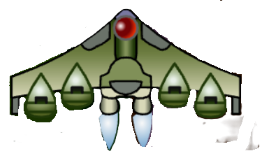
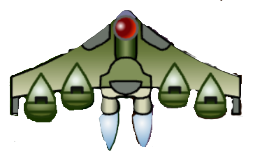
level_2

diff --git a/src/App.cpp b/src/App.cpp
@@ -820,70 +820,70 @@ void App::LoadLevel(int levelNum) {
         // 難度：簡單，主要是突襲型和散彈型
         m_LevelEvents = {
             //test
-            { 60.0f,  {0.0f, 300.0f}, EnemyType::BOSS2, false },
 
 
-            // 開場：3隻突襲機
-            // { 60.0f,  {0.0f, 500.0f}, EnemyType::ASSAULT, true },
-            // { 120.0f, {0.0f, 500.0f}, EnemyType::ASSAULT, true },
-            // { 180.0f, {0.0f, 500.0f}, EnemyType::ASSAULT, true },
-            //
-            // // 散彈型來襲
-            // { 300.0f, {0.0f, 500.0f}, EnemyType::SPREAD, true },
-            // { 420.0f, {0.0f, 500.0f}, EnemyType::SPREAD, true },
-            //
-            // // 坦克型登場
-            // { 480.0f, {0.0f, 500.0f}, EnemyType::TANK, true },
-            // { 540.0f, {0.0f, 500.0f}, EnemyType::TANK, true },
-            // { 600.0f, {0.0f, 500.0f}, EnemyType::TANK, true },
-            //
-            // // 中場：突襲機混戰
-            // { 660.0f, {0.0f, 500.0f}, EnemyType::ASSAULT, true },
-            // { 690.0f, {0.0f, 500.0f}, EnemyType::ASSAULT, true },
-            // { 720.0f, {0.0f, 500.0f}, EnemyType::ASSAULT, true },
-            // { 780.0f, {0.0f, 500.0f}, EnemyType::ASSAULT, true },
-            // { 810.0f, {0.0f, 500.0f}, EnemyType::ASSAULT, true },
-            // { 840.0f, {0.0f, 500.0f}, EnemyType::ASSAULT, true },
-            //
-            // // 幽靈型
-            // { 900.0f, {0.0f, 500.0f}, EnemyType::PHANTOM, true },
-            // { 1140.0f, {0.0f, 500.0f}, EnemyType::PHANTOM, true },
-            //
-            // // 坦克混戰
-            // { 1140.0f, {0.0f, 500.0f}, EnemyType::TANK, true },
-            // { 1170.0f, {0.0f, 500.0f}, EnemyType::TANK, true },
-            //
-            // // 後期：突襲機返場
-            // { 1200.0f, {0.0f, 500.0f}, EnemyType::ASSAULT, true },
-            // { 1230.0f, {0.0f, 500.0f}, EnemyType::ASSAULT, true },
-            // { 1260.0f, {0.0f, 500.0f}, EnemyType::ASSAULT, true },
-            //
-            // // 混合波次
-            // { 1320.0f, {0.0f, 500.0f}, EnemyType::SPREAD, true },
-            // { 1350.0f, {0.0f, 500.0f}, EnemyType::ASSAULT, true },
-            // { 1380.0f, {0.0f, 500.0f}, EnemyType::ASSAULT, true },
-            // { 1410.0f, {0.0f, 500.0f}, EnemyType::ASSAULT, true },
-            //
-            // // 砲台型
-            // { 1440.0f, {150.0f, 500.0f}, EnemyType::TURRET, false },
-            // { 1470.0f, {75.0f, 500.0f}, EnemyType::TURRET, false },
-            // { 1500.0f, {0.0f, 500.0f}, EnemyType::TURRET, false },
-            //
-            // // 最後衝刺
-            // { 1560.0f, {0.0f, 500.0f}, EnemyType::ASSAULT, true },
-            // { 1580.0f, {0.0f, 500.0f}, EnemyType::ASSAULT, true },
-            // { 1600.0f, {0.0f, 500.0f}, EnemyType::ASSAULT, true },
-            // { 1620.0f, {0.0f, 500.0f}, EnemyType::ASSAULT, true },
-            // { 1640.0f, {0.0f, 500.0f}, EnemyType::ASSAULT, true },
-            // { 1660.0f, {0.0f, 500.0f}, EnemyType::ASSAULT, true },
-            // { 1690.0f, {0.0f, 500.0f}, EnemyType::SPREAD, true },
-            //
-            // // 最後的坦克
-            // { 1720.0f, {0.0f, 500.0f}, EnemyType::TANK, true },
-            // { 1750.0f, {0.0f, 500.0f}, EnemyType::TANK, true },
-            //
-            // // 第一關BOSS
-            // { 2100.0f, {0.0f, 500.0f}, EnemyType::BOSS, false }
+
+            //開場：3隻突襲機
+            { 60.0f,  {0.0f, 500.0f}, EnemyType::ASSAULT, true },
+            { 120.0f, {0.0f, 500.0f}, EnemyType::ASSAULT, true },
+            { 180.0f, {0.0f, 500.0f}, EnemyType::ASSAULT, true },
+
+            // 散彈型來襲
+            { 300.0f, {0.0f, 500.0f}, EnemyType::SPREAD, true },
+            { 420.0f, {0.0f, 500.0f}, EnemyType::SPREAD, true },
+
+            // 坦克型登場
+            { 480.0f, {0.0f, 500.0f}, EnemyType::TANK, true },
+            { 540.0f, {0.0f, 500.0f}, EnemyType::TANK, true },
+            { 600.0f, {0.0f, 500.0f}, EnemyType::TANK, true },
+
+            // 中場：突襲機混戰
+            { 660.0f, {0.0f, 500.0f}, EnemyType::ASSAULT, true },
+            { 690.0f, {0.0f, 500.0f}, EnemyType::ASSAULT, true },
+            { 720.0f, {0.0f, 500.0f}, EnemyType::ASSAULT, true },
+            { 780.0f, {0.0f, 500.0f}, EnemyType::ASSAULT, true },
+            { 810.0f, {0.0f, 500.0f}, EnemyType::ASSAULT, true },
+            { 840.0f, {0.0f, 500.0f}, EnemyType::ASSAULT, true },
+
+            // 幽靈型
+            { 900.0f, {0.0f, 500.0f}, EnemyType::PHANTOM, true },
+            { 1140.0f, {0.0f, 500.0f}, EnemyType::PHANTOM, true },
+
+            // 坦克混戰
+            { 1140.0f, {0.0f, 500.0f}, EnemyType::TANK, true },
+            { 1170.0f, {0.0f, 500.0f}, EnemyType::TANK, true },
+
+            // 後期：突襲機返場
+            { 1200.0f, {0.0f, 500.0f}, EnemyType::ASSAULT, true },
+            { 1230.0f, {0.0f, 500.0f}, EnemyType::ASSAULT, true },
+            { 1260.0f, {0.0f, 500.0f}, EnemyType::ASSAULT, true },
+
+            // 混合波次
+            { 1320.0f, {0.0f, 500.0f}, EnemyType::SPREAD, true },
+            { 1350.0f, {0.0f, 500.0f}, EnemyType::ASSAULT, true },
+            { 1380.0f, {0.0f, 500.0f}, EnemyType::ASSAULT, true },
+            { 1410.0f, {0.0f, 500.0f}, EnemyType::ASSAULT, true },
+
+            // 砲台型
+            { 1440.0f, {150.0f, 500.0f}, EnemyType::TURRET, false },
+            { 1470.0f, {75.0f, 500.0f}, EnemyType::TURRET, false },
+            { 1500.0f, {0.0f, 500.0f}, EnemyType::TURRET, false },
+
+            // 最後衝刺
+            { 1560.0f, {0.0f, 500.0f}, EnemyType::ASSAULT, true },
+            { 1580.0f, {0.0f, 500.0f}, EnemyType::ASSAULT, true },
+            { 1600.0f, {0.0f, 500.0f}, EnemyType::ASSAULT, true },
+            { 1620.0f, {0.0f, 500.0f}, EnemyType::ASSAULT, true },
+            { 1640.0f, {0.0f, 500.0f}, EnemyType::ASSAULT, true },
+            { 1660.0f, {0.0f, 500.0f}, EnemyType::ASSAULT, true },
+            { 1690.0f, {0.0f, 500.0f}, EnemyType::SPREAD, true },
+
+            // 最後的坦克
+            { 1720.0f, {0.0f, 500.0f}, EnemyType::TANK, true },
+            { 1750.0f, {0.0f, 500.0f}, EnemyType::TANK, true },
+
+            // 第一關BOSS
+            { 2100.0f, {0.0f, 500.0f}, EnemyType::BOSS, false }
         };
     }
     else if (levelNum == 2) {
@@ -892,71 +892,81 @@ void App::LoadLevel(int levelNum) {
         // ==========================================
         // 難度：中等，敵機更密集，砲台增多
         m_LevelEvents = {
-            // 開場：連續突襲
-            { 60.0f, {0.0f, 500.0f}, EnemyType::ASSAULT, true },
-            { 90.0f, {0.0f, 500.0f}, EnemyType::ASSAULT, true },
-            { 120.0f, {0.0f, 500.0f}, EnemyType::ASSAULT, true },
-            { 150.0f, {0.0f, 500.0f}, EnemyType::ASSAULT, true },
 
-            // 坦克波次
-            { 250.0f, {0.0f, 500.0f}, EnemyType::TANK, true },
-            { 300.0f, {0.0f, 500.0f}, EnemyType::TANK, true },
-            { 350.0f, {0.0f, 500.0f}, EnemyType::TANK, true },
+            { 60.0f, {0.0f, 500.0f}, EnemyType::SPREAD, true },
 
-            // 散彈型密集
+            { 120.0f, {240.0f, 300.0f}, EnemyType::SPIRAL, false },
+            { 150.0f, {240.0f, 280.0f}, EnemyType::SPIRAL, false },
+            { 180.0f, {240.0f, 260.0f}, EnemyType::SPIRAL, false },
+
+            { 210.0f, {-240.0f, 300.0f}, EnemyType::SPIRAL, false },
+            { 240.0f, {-240.0f, 280.0f}, EnemyType::SPIRAL, false },
+            { 270.0f, {-240.0f, 260.0f}, EnemyType::SPIRAL, false },
+
+
+            { 250.0f, {200.0f, 500.0f}, EnemyType::TANK, false },
+            { 300.0f, {200.0f, 500.0f}, EnemyType::TANK, false },
+            { 350.0f, {200.0f, 500.0f}, EnemyType::TANK, false },
+
             { 400.0f, {0.0f, 500.0f}, EnemyType::SPREAD, true },
-            { 450.0f, {0.0f, 500.0f}, EnemyType::SPREAD, true },
-            { 500.0f, {0.0f, 500.0f}, EnemyType::SPREAD, true },
 
-            // 砲台陣列
-            { 600.0f, {-150.0f, 500.0f}, EnemyType::TURRET, false },
-            { 630.0f, {0.0f, 500.0f}, EnemyType::TURRET, false },
-            { 660.0f, {150.0f, 500.0f}, EnemyType::TURRET, false },
+            { 500.0f, {0.0f, 500.0f}, EnemyType::STRAFER, false },
 
-            // 幽靈型組隊
-            { 750.0f, {0.0f, 500.0f}, EnemyType::PHANTOM, true },
-            { 800.0f, {0.0f, 500.0f}, EnemyType::PHANTOM, true },
-            { 850.0f, {0.0f, 500.0f}, EnemyType::PHANTOM, true },
+            { 510.0f, {240.0f, 280.0f}, EnemyType::SPIRAL, false },
+            { 540.0f, {240.0f, 260.0f}, EnemyType::SPIRAL, false },
 
-            // 中場：全敵混戰
-            { 950.0f, {0.0f, 500.0f}, EnemyType::ASSAULT, true },
-            { 970.0f, {0.0f, 500.0f}, EnemyType::TANK, true },
-            { 990.0f, {0.0f, 500.0f}, EnemyType::SPREAD, true },
-            { 1010.0f, {0.0f, 500.0f}, EnemyType::ASSAULT, true },
-            { 1030.0f, {0.0f, 500.0f}, EnemyType::PHANTOM, true },
+            { 600.0f, {200.0f, 500.0f}, EnemyType::TANK, false },
+            { 630.0f, {200.0f, 500.0f}, EnemyType::TANK, false },
+            { 660.0f, {200.0f, 500.0f}, EnemyType::TANK, false },
 
-            // 密集突襲
-            { 1200.0f, {0.0f, 500.0f}, EnemyType::ASSAULT, true },
-            { 1220.0f, {0.0f, 500.0f}, EnemyType::ASSAULT, true },
-            { 1240.0f, {0.0f, 500.0f}, EnemyType::ASSAULT, true },
-            { 1260.0f, {0.0f, 500.0f}, EnemyType::ASSAULT, true },
-            { 1280.0f, {0.0f, 500.0f}, EnemyType::ASSAULT, true },
-            { 1300.0f, {0.0f, 500.0f}, EnemyType::ASSAULT, true },
-            { 1320.0f, {0.0f, 500.0f}, EnemyType::ASSAULT, true },
+            { 690.0f, {-240.0f, 270.0f}, EnemyType::SPIRAL, false },
+            { 720.0f, {-240.0f, 250.0f}, EnemyType::SPIRAL, false },
+            { 750.0f, {-240.0f, 230.0f}, EnemyType::SPIRAL, false },
 
-            // 坦克堡壘
-            { 1450.0f, {0.0f, 500.0f}, EnemyType::TANK, true },
-            { 1480.0f, {0.0f, 500.0f}, EnemyType::TANK, true },
-            { 1510.0f, {0.0f, 500.0f}, EnemyType::TANK, true },
+            { 780.0f, {75.0f, 500.0f,}, EnemyType::TURRET, false },
+            { 780.0f, {0.0f, 500.0f,}, EnemyType::TURRET, false },
 
-            // 散彈密集
-            { 1600.0f, {0.0f, 500.0f}, EnemyType::SPREAD, true },
-            { 1630.0f, {0.0f, 500.0f}, EnemyType::SPREAD, true },
+            { 900.0f, {100.0f, 500.0f,}, EnemyType::FORTRESS, false },
+            { 1600.0f, {-100.0f, 500.0f,}, EnemyType::FORTRESS, false },
 
-            // 砲台防線
-            { 1750.0f, {-120.0f, 500.0f}, EnemyType::TURRET, false },
-            { 1780.0f, {0.0f, 500.0f}, EnemyType::TURRET, false },
-            { 1810.0f, {120.0f, 500.0f}, EnemyType::TURRET, false },
+            { 1840.0f, {200.0f, 500.0f}, EnemyType::TANK, false },
+            { 1870.0f, {200.0f, 500.0f}, EnemyType::TANK, false },
+            { 1900.0f, {200.0f, 500.0f}, EnemyType::TANK, false },
 
-            // 最後衝刺混合
-            { 1900.0f, {0.0f, 500.0f}, EnemyType::ASSAULT, true },
-            { 1920.0f, {0.0f, 500.0f}, EnemyType::PHANTOM, true },
-            { 1940.0f, {0.0f, 500.0f}, EnemyType::ASSAULT, true },
-            { 1960.0f, {0.0f, 500.0f}, EnemyType::SPREAD, true },
-            { 1980.0f, {0.0f, 500.0f}, EnemyType::ASSAULT, true },
+            { 1900.0f, {0.0f, 500.0f}, EnemyType::SPREAD, true },
+
+            { 1930.0f, {-240.0f, 270.0f}, EnemyType::SPIRAL, false },
+            { 1960.0f, {-240.0f, 250.0f}, EnemyType::SPIRAL, false },
+            { 1990.0f, {-240.0f, 230.0f}, EnemyType::SPIRAL, false },
+            { 2020.0f, {-240.0f, 210.0f}, EnemyType::SPIRAL, false },
+
+            { 2050.0f, {0.0f, 500.0f}, EnemyType::SPREAD, true },
+
+            { 2050.0f, {-200.0f, 500.0f}, EnemyType::TANK, false },
+            { 2070.0f, {-200.0f, 500.0f}, EnemyType::TANK, false },
+            { 2100.0f, {-200.0f, 500.0f}, EnemyType::TANK, false },
+
+            { 2100.0f, {0.0f, 500.0f,}, EnemyType::TURRET, false },
+            { 2200.0f, {50.0f, 500.0f,}, EnemyType::TURRET, false },
+            { 2200.0f, {-50.0f, 500.0f,}, EnemyType::TURRET, false },
+
+            { 2500.0f, {0.0f, 500.0f,}, EnemyType::DASH, true },
+            { 2505.0f, {0.0f, 500.0f,}, EnemyType::DASH, true },
+            { 2510.0f, {0.0f, 500.0f,}, EnemyType::DASH, true },
+            { 2515.0f, {0.0f, 500.0f,}, EnemyType::DASH, true },
+            { 2520.0f, {0.0f, 500.0f,}, EnemyType::DASH, true },
+            { 2525.0f, {0.0f, 500.0f,}, EnemyType::DASH, true },
+            { 2530.0f, {0.0f, 500.0f,}, EnemyType::DASH, true },
+            { 2535.0f, {0.0f, 500.0f,}, EnemyType::DASH, true },
+            { 2540.0f, {0.0f, 500.0f,}, EnemyType::DASH, true },
+            { 2545.0f, {0.0f, 500.0f,}, EnemyType::DASH, true },
+            { 2550.0f, {0.0f, 500.0f,}, EnemyType::DASH, true },
+            { 2555.0f, {0.0f, 500.0f,}, EnemyType::DASH, true },
 
             // 第二關BOSS
-            { 2400.0f, {0.0f, 500.0f}, EnemyType::BOSS, false }
+            { 2800.0f, {0.0f, 500.0f}, EnemyType::BOSS2, false },
+
+
         };
     }
     else if (levelNum == 3) {